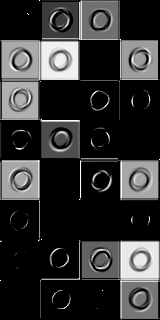
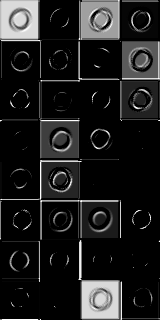
progress towards processing real data

diff --git a/src/unet/simple_segmentation.py b/src/unet/simple_segmentation.py
@@ -4,12 +4,16 @@ from tf_unet import util
 from tf_unet.image_util import BaseDataProvider
 import numpy as np
 import os
+import glob
+import scipy.misc
+import ntpath
 # data_folder = '../../data/ds3-ensemble-square/'
-data_folder = '../../data/ds4-ensemble-diffraction/'
-train_npz = np.load(data_folder + 'training.npz')
+# data_folder = '../../data/ds4-ensemble-diffraction/'
+data_folder = '../../data/ds5-real-data/square/'
+#train_npz = np.load(data_folder + 'training.npz')
 #test_npz = np.load(data_folder + 'test.npz')
 
-train_data, train_labels = train_npz['data'], train_npz['labels']
+#train_data, train_labels = train_npz['data'], train_npz['labels']
 #test_data, test_labels = test_npz['data'], test_npz['labels']
 
 class EnsembleDataProvider(BaseDataProvider):
@@ -30,17 +34,43 @@ class EnsembleDataProvider(BaseDataProvider):
         self.idx = self.idx + 1
         return data, label
 
+class RealDataProvider(BaseDataProvider):
+    channels = 3
+    n_class = 3
+    idx = 0
+    files = glob.glob(data_folder + "*.png" )
+    #im = scipy.misc.imread(input_folder+file)
+
+    def __init__(self, **kwargs):
+        super(RealDataProvider, self).__init__()
+        self.nx = 1365
+        self.ny = 1365
+        self.kwargs = kwargs
+
+    def _next_data(self):
+        datafile = self.files[self.idx]
+        data = scipy.misc.imread(datafile) #.reshape((self.nx, self.ny, 1))
+
+        basename =  ntpath.basename(datafile)
+        labelname = basename[0:basename.find('.mat')] + '_composite.tif'
+        label = scipy.misc.imread(data_folder + labelname)
+
+        self.idx = (self.idx + 1) % len(self.files)
+        return data, label
+
+
     #def _process_labels(self, label):
     #    return label
 
 
-model_folder = '../../models/m22-unet-diffraction-fast/'
-
+#model_folder = '../../models/m23-unet-diffraction-full/'
+model_folder = '../../models/m-23-unet-real-data/'
 if not os.path.exists(model_folder):
     os.makedirs(model_folder)
 
-generator = EnsembleDataProvider()
+#generator = EnsembleDataProvider()
+generator = RealDataProvider()
 net = unet.Unet(channels=generator.channels, n_class=generator.n_class, layers=3, features_root=16)
 trainer = unet.Trainer(net, optimizer="momentum", opt_kwargs=dict(momentum=0.2))
-path = trainer.train(generator, model_folder + "unet_trained", training_iters=20, epochs=10, display_step=2)
+path = trainer.train(generator, model_folder + "unet_trained", training_iters=2000, epochs=20, display_step=2, restore=True)
 

diff --git a/src/cnn/cnn.py b/src/cnn/cnn.py
@@ -14,9 +14,9 @@ from visual import ComponentVisualizer
 
 
 # mode = 'train'
-# mode = 'visualize'
+mode = 'visualize'
 # mode= 'debug'
-mode = 'stats'
+# mode = 'stats'
 
 learning_rate = 0.001
 training_iters = 200000
@@ -191,11 +191,12 @@ with tf.Session() as sess:
 
         viz_folder = get_model_folder('visualizations')
 
-        ComponentVisualizer.saveTiledFilterOutputs(cv_res1, viz_folder + 'cv1_out.png')
-        ComponentVisualizer.saveTiledFilterOutputs(cv_res2, viz_folder + 'cv2_out.png')
+        cr = 3
+        ComponentVisualizer.saveTiledFilterOutputs(cv_res1, viz_folder + 'cv1_out_{0}_L{1}.png', train_data[0:128], train_labels[0:128], cropx=cr, cropy=cr)
+        ComponentVisualizer.saveTiledFilterOutputs(cv_res2, viz_folder + 'cv2_out_{0}_L{1}.png', train_data[0:128], train_labels[0:128], cropx=cr, cropy=cr)
 
-        ComponentVisualizer.saveTiledFilters(wc1_res, viz_folder + 'wc1_res.png' )
-        ComponentVisualizer.saveTiledFilters(wc2_res, viz_folder + 'wc2_res.png' )
+        ComponentVisualizer.saveTiledFilters(wc1_res, viz_folder + 'wc1_res.png' , train_labels[0:128])
+        ComponentVisualizer.saveTiledFilters(wc2_res, viz_folder + 'wc2_res.png', train_labels[0:128] )
     elif mode == 'stats':
         stats_folder = get_model_folder('stats')
 

diff --git a/src/visual/comp_visualizer.py b/src/visual/comp_visualizer.py
@@ -21,10 +21,13 @@ class ComponentVisualizer(object):
         plt.show()
 
     @classmethod
-    def saveTiledFilterOutputs(cls, units, destination, n_columns=4, cropx=0, cropy = 0):
+    def saveTiledFilterOutputs(cls, units, destination, labels, n_columns=4, cropx=0, cropy = 0, ):
         filters = units.shape[3]
-        images = [scipy.misc.toimage(units[0,:,:,f].reshape([units.shape[1], units.shape[2]]), mode='L') for f in range(filters)]
-        ComponentVisualizer.saveTiledImages(images, destination, n_columns=n_columns, cropx=cropx, cropy = cropy)
+        for i in range(5):
+            images = [scipy.misc.toimage(units[i,:,:,f].reshape([units.shape[1], units.shape[2]]), mode='L') for f in range(filters)]
+            for j in range()
+            label = np.where(labels[i] == 1)[0][0]
+            ComponentVisualizer.saveTiledImages(images, destination.format(i,label), n_columns=n_columns +1, cropx=cropx, cropy = cropy)
 
     @classmethod
     def saveTiledFilters(cls, units, destination, n_columns=4, cropx=0, cropy = 0):
